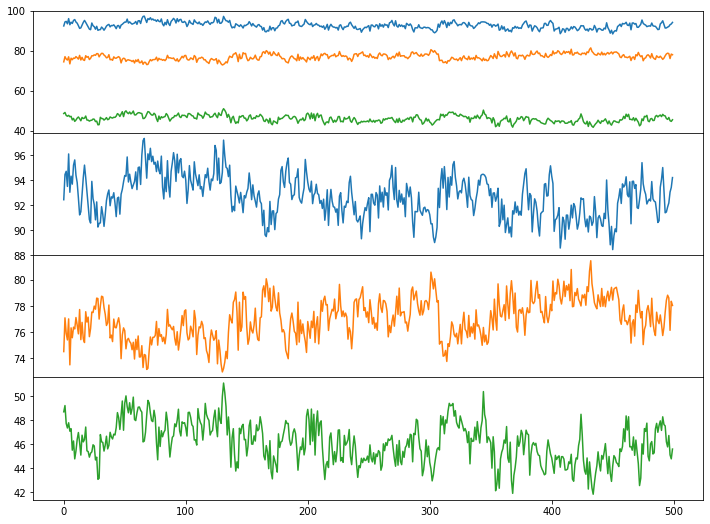
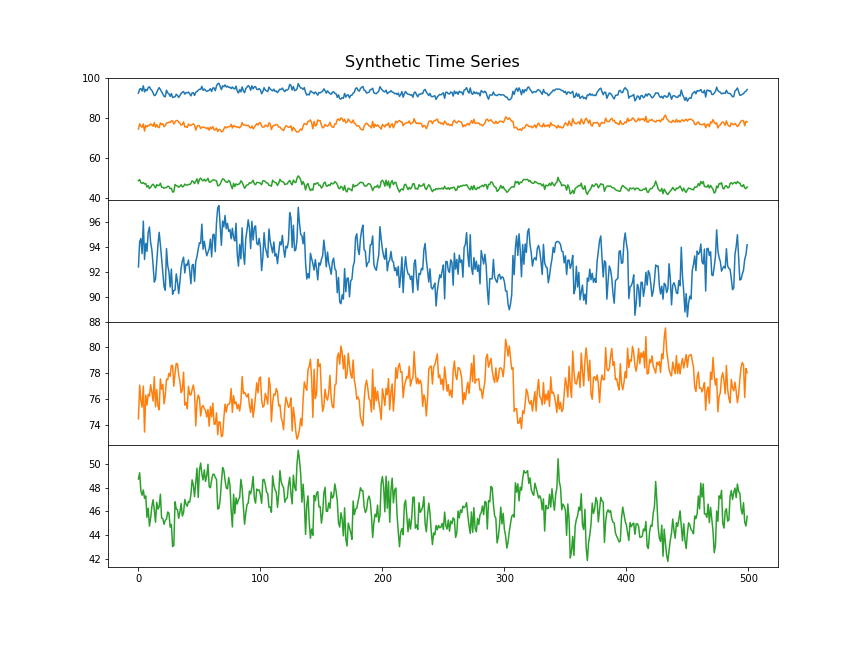
up

diff --git a/Code/figures.py b/Code/figures.py
@@ -6,52 +6,234 @@ import matplotlib.pyplot as plt
 # plt.show()
 
 #                             Index  Var x Time
-datasets = ['macro', #__________0     12 x 203    # 
-            'elnino', #_________1     12 x 61     # 
-            'ozone', #__________2      8 x 203    # 
-            'nightvisitors', #__3      8 x 56     #
+datasets = ['macro', #__________0     12 x 203    # DONE
+            'elnino', #_________1     12 x 61     # DONE
+            'ozone', #__________2      8 x 203    # DONE
+            'nightvisitors', #__3      8 x 56     # DONE
             'nasdaq', #_________4     82 x 40560  # 
-            'yahoo', #__________5     5 x 2469    #
-            'stackloss', #______6     4 x 21      #
+            'yahoo', #__________5     5 x 2469    # DONE
+            'stackloss', #______6     4 x 21      # DONE
             'book1'] #__________7     3 x sum(Ns) # DONE 
+
 
 '''Book Dataset'''
 X, _, _ = get_data(datasets[7], [500, 1, 1])
 fig = plt.figure(figsize = (12,9))
 gs = fig.add_gridspec(4, hspace=0)
 axs = gs.subplots(sharex=True, sharey=False)
-# fig.suptitle('Sharing both axes')
+fig.suptitle("Synthetic Time Series", fontsize=16, y=0.915)
 colors = ['tab:blue', 'tab:orange', 'tab:green']
 for i in range(len(colors)):
     axs[0].plot(X[i, :].T, c = colors[i])
     axs[i+1].plot(X[i, :].T, c = colors[i])
-# axs[1].plot(X[0, :].T, 'tab:blue')
-# axs[2].plot(X[1, :].T, 'tab:orange')
-# axs[3].plot(X[2, :].T, 'tab:green')
-plt.show()
+plt.savefig('./figures/synthetic.png')
+plt.close()
 
+
+
+'''Macro Dataset'''
+X, _, _ = get_data(datasets[0], [500, 1, 1])
+colors = ['tab:blue', 'tab:orange', 'tab:green', 
+          'tab:red', 'tab:purple', 'tab:brown', 
+          'tab:pink', 'tab:gray', 'tab:olive', 
+          'tab:cyan', 'saddlebrown', 'k']
+plt.figure(figsize = (12,5))
+plt.title("US Macroeconomic Time Series", fontsize=16)
+for i in range(len(colors)):
+    plt.plot(X[i, :].T, c=colors[i])
+plt.savefig('./figures/macro1.png')
+plt.close()
 
 
 fig = plt.figure(figsize = (14,14))
-gs = fig.add_gridspec(7, 2, hspace=0)
+gs = fig.add_gridspec(6, 2, hspace=0.04)
+fig.suptitle("US Macroeconomic Time Series", fontsize=16, y=0.91)
 axs = gs.subplots(sharex=True, sharey=False)
+for i in range(0, X.shape[0], 2):
+    axs[int(i/2), 0].plot(X[i, :].T, c=colors[i])
+    axs[int(i/2), 1].plot(X[i+1, :].T, c=colors[i+1])
+    if i != X.shape[0]-2:
+        axs[int(i/2), 0].axes.xaxis.set_visible(False)
+        axs[int(i/2), 1].axes.xaxis.set_visible(False)
+plt.savefig('./figures/macro2.png')
+plt.close()
+
+
+# fig = plt.figure(figsize = (14,14))
+# gs = fig.add_gridspec(4, 3, hspace=0.04)
+# fig.suptitle("US Macroeconomic Time Series", fontsize=16, y=0.91)
+# axs = gs.subplots(sharex=True, sharey=False)
+# for i in range(0, X.shape[0], 3):
+#     axs[int(i/3), 0].plot(X[i, :].T, c=colors[i])
+#     axs[int(i/3), 1].plot(X[i+1, :].T, c=colors[i+1])
+#     axs[int(i/3), 2].plot(X[i+2, :].T, c=colors[i+2])
+#     if i != X.shape[0]-3:
+#         axs[int(i/3), 0].axes.xaxis.set_visible(False)
+#         axs[int(i/3), 1].axes.xaxis.set_visible(False)
+#         axs[int(i/3), 2].axes.xaxis.set_visible(False)
+# plt.savefig('./figures/macro3.png')
+# plt.close()
+
+
+'''El Nino'''
+X, _, _ = get_data(datasets[2], [500, 1, 1])
+colors = ['tab:blue', 'tab:orange', 'tab:green', 
+          'tab:red', 'tab:purple', 'tab:brown', 
+          'tab:pink', 'tab:gray']
+plt.figure(figsize = (12,5))
+plt.title("El Nino Time Series", fontsize=16)
+for i in range(len(colors)):
+    plt.plot(X[i, :].T, c=colors[i])
+plt.savefig('./figures/ozone1.png')
+plt.close()
+
+
+fig = plt.figure(figsize = (14,14))
+gs = fig.add_gridspec(6, 2, hspace=0.04)
+fig.suptitle("Ozone Time Series", fontsize=16, y=0.91)
+axs = gs.subplots(sharex=True, sharey=False)
+for i in range(0, X.shape[0], 2):
+    axs[int(i/2), 0].plot(X[i, :].T, c=colors[i])
+    axs[int(i/2), 1].plot(X[i+1, :].T, c=colors[i+1])
+    if i != X.shape[0]-2:
+        axs[int(i/2), 0].axes.xaxis.set_visible(False)
+        axs[int(i/2), 1].axes.xaxis.set_visible(False)
+plt.savefig('./figures/ozone2.png')
+plt.close()
+
+
+'''Ozone'''
+X, _, _ = get_data(datasets[2], [500, 1, 1])
+colors = ['tab:blue', 'tab:orange', 'tab:green', 'tab:red', 
+          'tab:purple', 'tab:brown', 'tab:pink', 'tab:gray']
+fig = plt.figure(figsize = (14,14))
+gs = fig.add_gridspec(5, 2, hspace=0.15)
+fig.suptitle("Ozone Time Series", fontsize=16, y=0.91)
+axs = gs.subplots(sharex=False, sharey=False)
 for ax in axs[0,:]:
     ax.remove()
 axbig = fig.add_subplot(gs[0, :])
+for i in range(X.shape[0]):
+    axbig.plot(X[i, :].T, c=colors[i])
+    if i%2 == 0:
+        axs[int(i/2)+1, 0].plot(X[i, :].T, c=colors[i])
+    else:
+        axs[int(i/2)+1, 1].plot(X[i, :].T, c=colors[i])
+    # if i < X.shape[0]-2:
+    #     axs[int(i/2)+1, 0].axes.xaxis.set_visible(False)
+    #     axs[int(i/2)+1, 1].axes.xaxis.set_visible(False)
+plt.savefig('./figures/ozone.png')
+plt.close()
 
-# fig.suptitle('Sharing both axes')
-axbig.plot(X.T)
-axs[1, 0].plot(X[0, :].T, 'tab:blue')
-axs[1, 1].plot(X[1, :].T, 'tab:orange')
-axs[2, 0].plot(X[2, :].T, 'tab:green')
-axs[2, 1].plot(X[3, :].T, 'tab:blue')
-axs[3, 0].plot(X[4, :].T, 'tab:orange')
-axs[3, 1].plot(X[5, :].T, 'tab:green')
-axs[4, 0].plot(X[6, :].T, 'tab:blue')
-axs[4, 1].plot(X[7, :].T, 'tab:orange')
-axs[5, 0].plot(X[8, :].T, 'tab:green')
-axs[5, 1].plot(X[9, :].T, 'tab:blue')
-axs[6, 0].plot(X[10, :].T, 'tab:orange')
-axs[6, 1].plot(X[11, :].T, 'tab:green')
-plt.show()
+
+'''Night Visitors'''
+X, _, _ = get_data(datasets[3], [500, 1, 1])
+colors = ['tab:blue', 'tab:orange', 'tab:green', 'tab:red', 
+          'tab:purple', 'tab:brown', 'tab:pink', 'tab:gray']
+fig = plt.figure(figsize = (14,14))
+gs = fig.add_gridspec(5, 2, hspace=0.15)
+fig.suptitle("Night Visitors Time Series", fontsize=16, y=0.91)
+axs = gs.subplots(sharex=False, sharey=False)
+for ax in axs[0,:]:
+    ax.remove()
+axbig = fig.add_subplot(gs[0, :])
+for i in range(X.shape[0]):
+    axbig.plot(X[i, :].T, c=colors[i])
+    if i%2 == 0:
+        axs[int(i/2)+1, 0].plot(X[i, :].T, c=colors[i])
+    else:
+        axs[int(i/2)+1, 1].plot(X[i, :].T, c=colors[i])
+    # if i < X.shape[0]-2:
+    #     axs[int(i/2)+1, 0].axes.xaxis.set_visible(False)
+    #     axs[int(i/2)+1, 1].axes.xaxis.set_visible(False)
+plt.savefig('./figures/night_visitors.png')
+plt.close()
+
+    
+'''Stack Loss'''
+colors = ['tab:blue', 'tab:orange', 'tab:green', 'tab:red']
+X, _, _ = get_data(datasets[6], [500, 1, 1])
+fig = plt.figure(figsize = (9,9))
+gs = fig.add_gridspec(5, hspace=0)
+axs = gs.subplots(sharex=True, sharey=False)
+fig.suptitle("Stack Loss Time Series", fontsize=16, y=0.915)
+for i in range(len(colors)):
+    axs[0].plot(X[i, :].T, c = colors[i])
+axs[4].plot(X[0, :].T, c = colors[0])
+axs[2].plot(X[1, :].T, c = colors[1])
+axs[3].plot(X[2, :].T, c = colors[2])
+axs[1].plot(X[3, :].T, c = colors[3])
+plt.savefig('./figures/stack_loss.png')
+plt.close()
+
+
+    
+'''Yahoo'''
+X, _, _ = get_data(datasets[5], [100, 1, 1])
+colors = ['tab:blue', 'tab:orange', 'tab:green', 'tab:red']
+plt.figure(figsize = (12,5))
+plt.title("Yahoo Stock Time Series", fontsize=16)
+for i in range(len(colors)):
+    plt.plot(X[i, :].T, c=colors[i])
+plt.savefig('./figures/yahoo1.png')
+plt.close()
+
+
+fig = plt.figure(figsize = (12,9))
+gs = fig.add_gridspec(4, hspace=0)
+axs = gs.subplots(sharex=True, sharey=False)
+fig.suptitle("Yahoo Time Series", fontsize=16, y=0.915)
+axs[0].plot(X[0, :].T, c = colors[0])
+axs[1].plot(X[1, :].T, c = colors[1])
+axs[2].plot(X[2, :].T, c = colors[2])
+axs[3].plot(X[3, :].T, c = colors[3])
+plt.savefig('./figures/yahoo2.png')
+plt.close()
+
+
+
+'''nasdaq'''
+X, _, _ = get_data(datasets[4], [100, 1, 1])
+plt.figure(figsize = (12,5))
+plt.title("NASDAQ Time Series", fontsize=16)
+plt.plot(X.T)
+plt.savefig('./figures/nasdaq.png')
+plt.close()
+
+
+
+
+
+
+# '''Macro Dataset'''
+# X, _, _ = get_data(datasets[0], [500, 1, 1])
+# fig = plt.figure(figsize = (14,14))
+# gs = fig.add_gridspec(7, 2, hspace=0.1)
+# axs = gs.subplots(sharex=True, sharey=False)
+# for ax in axs[0,:]:
+#     ax.remove()
+# axbig = fig.add_subplot(gs[0, :])
+# colors = ['tab:blue', 'tab:orange', 'tab:green', 'tab:red', 'tab:purple', 'tab:brown', 'tab:pink', 'tab:gray', 'tab:olive', 'tab:cyan']
+
+# # fig.suptitle('Sharing both axes')
+# for i in range(len(colors)):
+#     axbig.plot(X[i, :].T, c=colors[i])
+    
+    
+
+# fig = plt.figure(figsize = (14,14))
+# gs = fig.add_gridspec(6, 2, hspace=0.1)
+# axs = gs.subplots(sharex=True, sharey=False)
+# axbig = fig.add_subplot(gs[0, :])
+# axs[1, 0].plot(X[0, :].T, c=colors[0])
+# axs[1, 1].plot(X[1, :].T, c=colors[1])
+# axs[2, 0].plot(X[2, :].T, c=colors[2])
+# axs[2, 1].plot(X[3, :].T, c=colors[3])
+# axs[3, 0].plot(X[4, :].T, c=colors[4])
+# axs[3, 1].plot(X[5, :].T, c=colors[5])
+# axs[4, 0].plot(X[6, :].T, c=colors[6])
+# axs[4, 1].plot(X[7, :].T, c=colors[7])
+# axs[5, 0].plot(X[8, :].T, c=colors[8])
+# axs[5, 1].plot(X[9, :].T, 'tab:blue')
+# plt.savefig('./figures/macro2.png')
 
